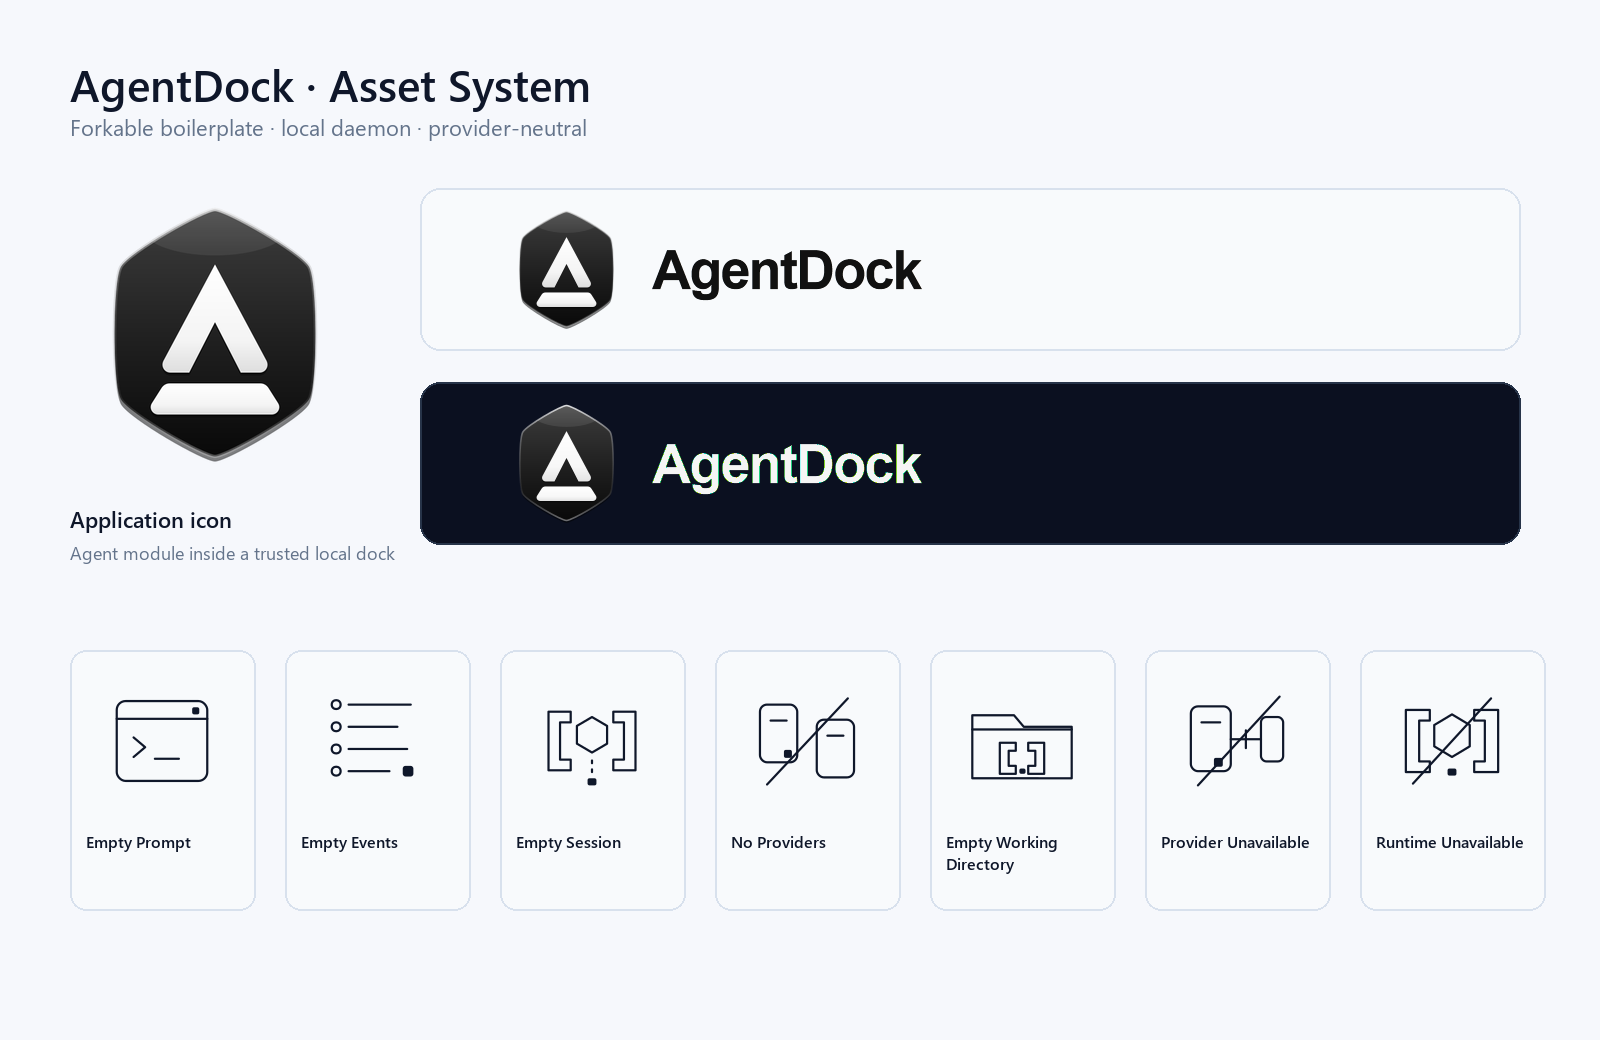
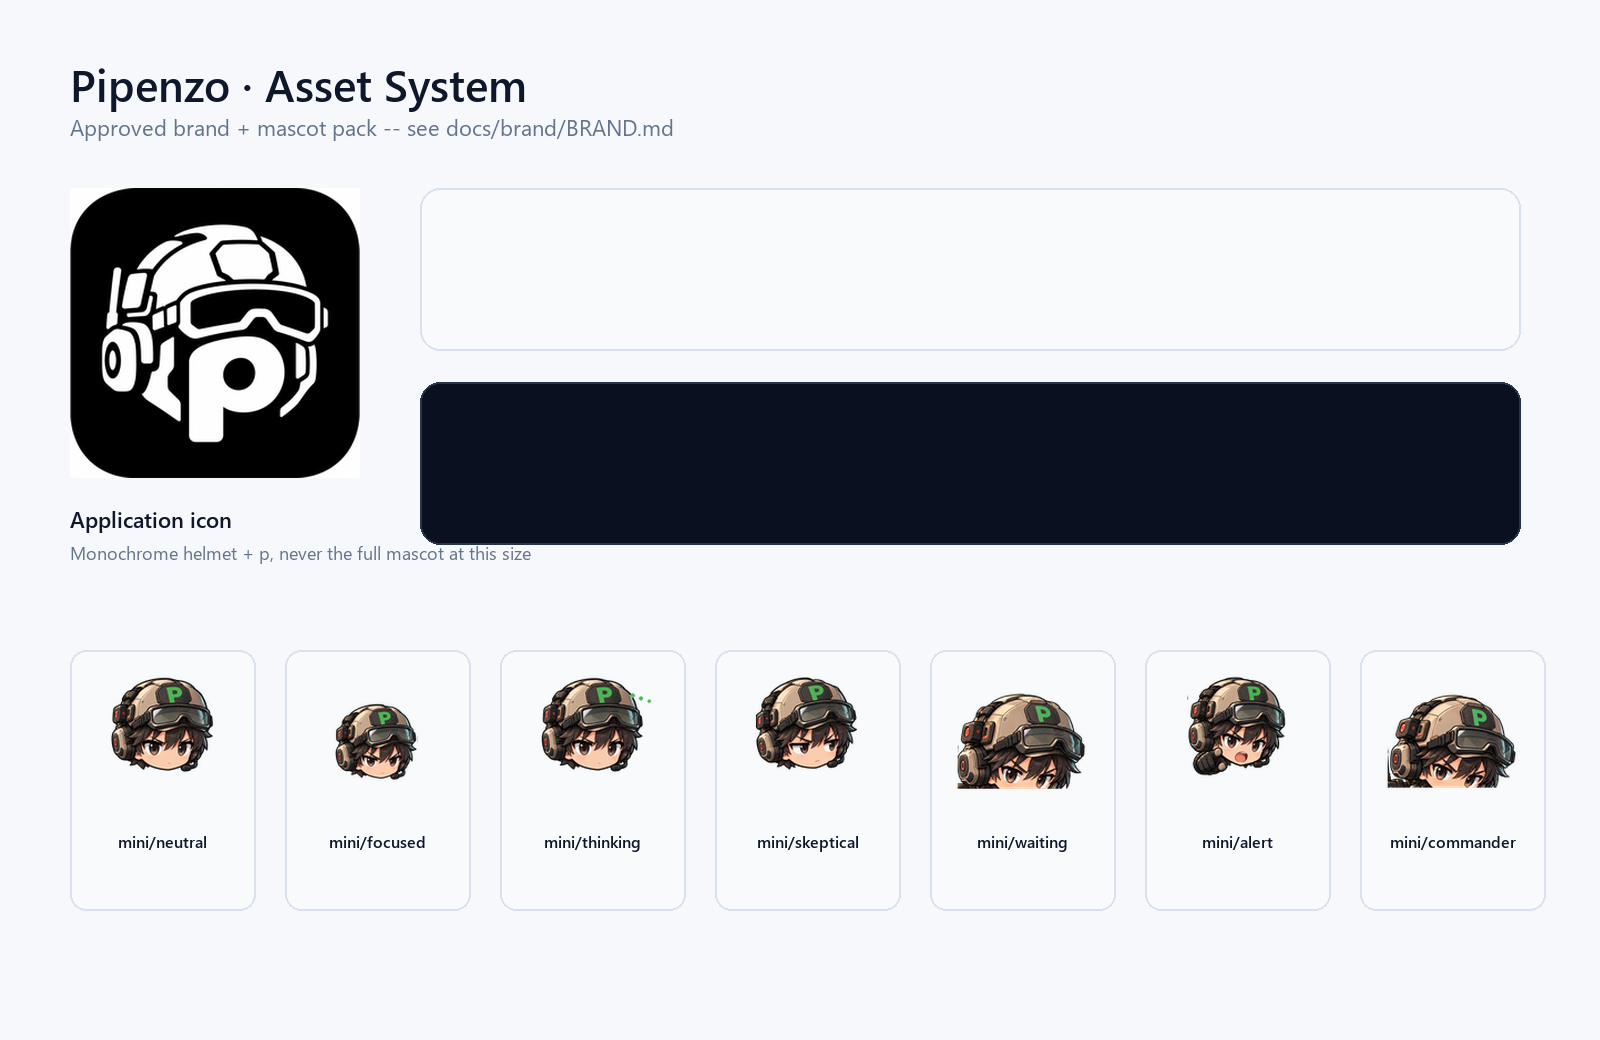
feat(assets): use the Pipenzo asset system across secondary public surfaces (#246)
Final ticket in epic #247. Replaces the remaining AgentDock-composited
public outputs with Pipenzo equivalents and adds the documented secondary
uses the ticket asks for -- all sourced from the approved pack (#239),
never redrawn.

scripts/assets/generate_public_assets.py:
- make_portfolio(): was an AgentDock composition with a screenshot overlay;
  now a plain aspect-preserving resize of the approved GitHub social
  preview (1280x640 -> 1440x720, exactly 2:1 both ways, so no crop/
  distortion). Deliberately not sourced from the #245 landing-page hero,
  which bakes in a "VIEW ON GITHUB" pixel button that makes sense next to
  a real clickable one on that page but reads as a fake control on a
  static portfolio thumbnail with no button anywhere near it -- caught by
  my own visual check, not a review finding.
- make_asset_system_preview(), make_icon_size_preview(): re-sourced from
  the approved Pipenzo icon/lockup/mini-portrait files instead of
  AgentDock's. The contributor preview sheet pastes real files in
  verbatim; it's documentation of the real committed system, not a new
  generative concept sheet.
- Added the workflow-roles illustration as a new generated file, embedded
  in docs/daemon.md's phase-machine section.
- Removed now-dead AgentDock-only code this rewrite orphaned:
  framed_screenshot(), rounded_mask(), hero_canvas(), make_social() (the
  last already unreachable from main() since #240), and the constants only
  those used.
[…]

diff --git a/scripts/assets/generate_public_assets.py b/scripts/assets/generate_public_assets.py
@@ -1,5 +1,11 @@
 #!/usr/bin/env python3
-"""Build AgentDock documentation and social images from reviewed local sources."""
+"""Build Pipenzo documentation and social images from reviewed local sources.
+
+Screenshot normalization is generated (a deterministic canvas/crop over a real browser capture);
+every Pipenzo composition below is either copied verbatim from the approved pack (#239) or a
+deterministic derivative of one (a crop, a labelled contact sheet of real pasted-in files) -- never
+a redrawn character, per the epic's #1 rule.
+"""
 
 from __future__ import annotations
 
@@ -7,7 +13,7 @@ import io
 from pathlib import Path
 
 import cairosvg
-from PIL import Image, ImageDraw, ImageEnhance, ImageFont
+from PIL import Image, ImageDraw, ImageFont
 from generate_assets import assert_safe_svg
 
 
@@ -15,15 +21,14 @@ PROJECT_ROOT = Path(__file__).resolve().parents[2]
 DESKTOP_ASSETS = PROJECT_ROOT / "apps" / "desktop" / "assets"
 SCREENSHOTS = PROJECT_ROOT / "docs" / "images" / "screenshots"
 SOCIAL = PROJECT_ROOT / "docs" / "images" / "social"
-ARTWORK = PROJECT_ROOT / "docs" / "images" / "artwork" / "agent-dock-runtime.png"
-PNG_ICONS = DESKTOP_ASSETS / "app-icons" / "png"
-BRAND = DESKTOP_ASSETS / "brand"
-ILLUSTRATIONS = DESKTOP_ASSETS / "illustrations"
 
-# Pipenzo's own public/social campaign (#240) reuses the pack #239 checked in verbatim -- these
-# compositions are already reviewed and approved, so this script copies them rather than
-# recomposing (redrawing) them the way the AgentDock functions below do.
-PIPENZO_MARKETING = DESKTOP_ASSETS / "pipenzo" / "marketing"
+PIPENZO_ROOT = DESKTOP_ASSETS / "pipenzo"
+PIPENZO_MARKETING = PIPENZO_ROOT / "marketing"
+PIPENZO_BRAND = PIPENZO_ROOT / "brand"
+PIPENZO_PNG_ICONS = PIPENZO_ROOT / "app-icons" / "png"
+PIPENZO_MINI = PIPENZO_ROOT / "mascot" / "mini"
+PIPENZO_ILLUSTRATIONS = PIPENZO_ROOT / "illustrations"
+PIPENZO_PNG_SIZES = (16, 20, 24, 32, 48, 64, 128, 256)
 
 NAVY = "#0B1020"
 INK = "#0F172A"
@@ -31,8 +36,6 @@ SLATE = "#64748B"
 PAPER = "#F8FAFC"
 CANVAS = "#F6F8FC"
 BORDER = "#D8E1ED"
-COBALT = "#5B6CFF"
-MINT = "#2DD4BF"
 
 SCREENSHOT_NAMES = (
     "desktop-ready.png",
@@ -66,14 +69,6 @@ def fit_crop(image: Image.Image, target: tuple[int, int]) -> Image.Image:
     left = (resized.width - width) // 2
     top = (resized.height - height) // 2
     return resized.crop((left, top, left + width, top + height))
-
-
-def rounded_mask(size: tuple[int, int], radius: int) -> Image.Image:
-    mask = Image.new("L", size, 0)
-    ImageDraw.Draw(mask).rounded_rectangle(
-        (0, 0, size[0] - 1, size[1] - 1), radius=radius, fill=255
-    )
-    return mask
 
 
 def rasterize_svg(path: Path, width: int, height: int, color: str | None = None) -> Image.Image:
@@ -121,30 +116,6 @@ def normalize_screenshots() -> None:
         canvas.save(path, format="PNG", optimize=True)
 
 
-def framed_screenshot(source: Image.Image, size: tuple[int, int]) -> Image.Image:
-    frame = Image.new("RGBA", (size[0] + 28, size[1] + 28), (0, 0, 0, 0))
-    draw = ImageDraw.Draw(frame)
-    draw.rounded_rectangle(
-        (0, 0, frame.width - 1, frame.height - 1),
-        radius=24,
-        fill="#111827",
-        outline="#334155",
-        width=2,
-    )
-    crop = fit_crop(source, size)
-    frame.paste(crop, (14, 14), rounded_mask(size, 14))
-    return frame
-
-
-def hero_canvas() -> Image.Image:
-    with Image.open(ARTWORK) as source:
-        artwork = fit_crop(source.convert("RGB"), (1440, 900))
-    artwork = ImageEnhance.Brightness(artwork).enhance(0.68)
-    canvas = artwork.convert("RGBA")
-    canvas.alpha_composite(Image.new("RGBA", canvas.size, (5, 11, 24, 72)))
-    return canvas
-
-
 def use_reviewed_source(source: Path, destination: Path) -> None:
     """Copy an already-reviewed, checked-in Pipenzo composition verbatim -- never redrawn."""
 
@@ -152,138 +123,70 @@ def use_reviewed_source(source: Path, destination: Path) -> None:
 
 
 def make_portfolio() -> None:
-    # Still AgentDock's own composition (#246 owns replacing this with a Pipenzo equivalent
-    # derived from the approved hero asset; #240 only owns the README hero and GitHub/OG social
-    # images, so this function is unchanged from before except no longer also writing
-    # readme-hero.webp, which now comes from the approved Pipenzo source below instead).
-    canvas = hero_canvas()
-    draw = ImageDraw.Draw(canvas)
-    draw.rounded_rectangle((44, 48, 470, 852), radius=30, fill=(7, 14, 30, 226), outline="#273449", width=2)
+    """Portfolio/project-card art (#246): a deterministic resize of the approved GitHub social
+    composition, not a redrawn composition -- the "responsive raster derivative" #239 explicitly
+    allows, not new artwork. Sourced from the social preview rather than the landing-page hero:
+    the landing hero (#245) bakes in a "VIEW ON GITHUB" pixel button that makes sense on the site
+    it sits next to a real clickable one, but reads as a broken/fake control on a static portfolio
+    thumbnail with no real button anywhere near it. Target size (1440x720) matches the source's
+    own 2:1 aspect ratio exactly -- a plain resize, not a fill-crop, so no baked text ever clips.
+    """
 
-    icon = Image.open(PNG_ICONS / "icon-128.png").convert("RGBA").resize((88, 88), Image.Resampling.LANCZOS)
-    canvas.alpha_composite(icon, (78, 84))
-    draw.text((78, 210), "AgentDock", fill=PAPER, font=font(58, bold=True))
-    draw.multiline_text(
-        (78, 292),
-        "Forkable Electron boilerplate\nfor desktop products using\nClaude Agent or Codex CLI.",
-        fill="#CBD5E1",
-        font=font(23),
-        spacing=8,
-    )
-
-    chips = ("Local daemon included", "CLI auth stays local", "Typed provider events")
-    y = 418
-    for label in chips:
-        draw.rounded_rectangle((78, y, 390, y + 48), radius=14, fill="#121A2B", outline="#334155")
-        draw.ellipse((96, y + 18, 108, y + 30), fill=MINT if y == 418 else COBALT)
-        draw.text((122, y + 12), label, fill="#E2E8F0", font=font(17, bold=True))
-        y += 64
-    draw.text((78, 786), "Electron · Fastify · TypeScript", fill="#94A3B8", font=font(16))
-
-    with Image.open(SCREENSHOTS / "session-completed.png") as source:
-        screenshot = source.convert("RGB")
-    frame = framed_screenshot(screenshot, (840, 525))
-    shadow = Image.new("RGBA", canvas.size, (0, 0, 0, 0))
-    ImageDraw.Draw(shadow).rounded_rectangle((524, 205, 1404, 775), radius=28, fill=(0, 0, 0, 90))
-    canvas.alpha_composite(shadow)
-    canvas.alpha_composite(frame, (500, 178))
-
-    rgb = canvas.convert("RGB")
-    rgb.save(SOCIAL / "portfolio-project.png", format="PNG", optimize=True)
-
-
-def make_social(width: int, height: int, filename: str) -> None:
-    with Image.open(ARTWORK) as source:
-        background = fit_crop(source.convert("RGB"), (width, height))
-    background = ImageEnhance.Brightness(background).enhance(0.62).convert("RGBA")
-    background.alpha_composite(Image.new("RGBA", background.size, (4, 10, 22, 88)))
-    draw = ImageDraw.Draw(background)
-
-    pad = round(width * 0.06)
-    icon_size = round(height * 0.14)
-    icon = Image.open(PNG_ICONS / "icon-128.png").convert("RGBA").resize(
-        (icon_size, icon_size), Image.Resampling.LANCZOS
-    )
-    background.alpha_composite(icon, (pad, pad))
-    title_size = round(height * 0.105)
-    draw.text((pad, pad + icon_size + 28), "AgentDock", fill=PAPER, font=font(title_size, bold=True))
-    draw.multiline_text(
-        (pad, pad + icon_size + title_size + 50),
-        "Electron boilerplate.\nLocal daemon included.",
-        fill="#CBD5E1",
-        font=font(round(height * 0.043)),
-        spacing=8,
-    )
-    draw.text(
-        (pad, height - pad - 30),
-        "Fork it · Claude Agent · Codex CLI",
-        fill="#94A3B8",
-        font=font(round(height * 0.027)),
-    )
-    background.convert("RGB").save(SOCIAL / filename, format="PNG", optimize=True)
+    with Image.open(PIPENZO_MARKETING / "pipenzo-github-social-preview-1280x640.png") as source:
+        resized = source.convert("RGB").resize((1440, 720), Image.Resampling.LANCZOS)
+    resized.save(SOCIAL / "portfolio-project.png", format="PNG", optimize=True)
 
 
 def make_asset_system_preview() -> None:
+    """Contributor-facing asset preview (#246): a documentation sheet of the real, checked-in
+    Pipenzo pack (#239) -- the icon, lockups, and mini portraits are pasted in verbatim from
+    approved files, only the labels/layout are generated. Not a new generative concept sheet."""
+
     canvas = Image.new("RGB", (1600, 1040), CANVAS)
     draw = ImageDraw.Draw(canvas)
-    draw.text((70, 54), "AgentDock · Asset System", fill=INK, font=font(44, bold=True))
-    draw.text((70, 112), "Forkable boilerplate · local daemon · provider-neutral", fill=SLATE, font=font(22))
+    draw.text((70, 54), "Pipenzo · Asset System", fill=INK, font=font(44, bold=True))
+    draw.text((70, 112), "Approved brand + mascot pack -- see docs/brand/BRAND.md", fill=SLATE, font=font(22))
 
-    icon = Image.open(PNG_ICONS / "icon-512.png").convert("RGBA").resize((290, 290), Image.Resampling.LANCZOS)
+    icon = Image.open(PIPENZO_PNG_ICONS / "pipenzo-icon-256.png").convert("RGBA").resize(
+        (290, 290), Image.Resampling.LANCZOS
+    )
     canvas.paste(icon, (70, 188), icon)
     draw.text((70, 504), "Application icon", fill=INK, font=font(22, bold=True))
-    draw.text((70, 540), "Agent module inside a trusted local dock", fill=SLATE, font=font(18))
+    draw.text((70, 540), "Monochrome helmet + p, never the full mascot at this size", fill=SLATE, font=font(18))
 
     draw.rounded_rectangle((420, 188, 1520, 350), radius=20, fill=PAPER, outline=BORDER, width=2)
-    light = rasterize_svg(BRAND / "agent-dock-lockup-horizontal-light.svg", 720, 144)
+    light = rasterize_svg(PIPENZO_BRAND / "pipenzo-lockup-horizontal-light.svg", 720, 144)
     canvas.paste(light, (490, 197), light)
     draw.rounded_rectangle((420, 382, 1520, 544), radius=20, fill=NAVY, outline="#273449", width=2)
-    dark = rasterize_svg(BRAND / "agent-dock-lockup-horizontal-dark.svg", 720, 144)
+    dark = rasterize_svg(PIPENZO_BRAND / "pipenzo-lockup-horizontal-dark.svg", 720, 144)
     canvas.paste(dark, (490, 391), dark)
 
-    names = (
-        "empty-prompt",
-        "empty-events",
-        "empty-session",
-        "no-providers",
-        "empty-working-directory",
-        "provider-unavailable",
-        "runtime-unavailable",
-    )
+    expressions = ("neutral", "focused", "thinking", "skeptical", "waiting", "alert", "commander")
     x0, y0 = 70, 650
-    for index, name in enumerate(names):
+    for index, name in enumerate(expressions):
         x = x0 + index * 215
         draw.rounded_rectangle((x, y0, x + 185, y0 + 260), radius=16, fill=PAPER, outline=BORDER, width=2)
-        illustration = rasterize_svg(ILLUSTRATIONS / f"{name}.svg", 142, 142, INK)
-        canvas.paste(illustration, (x + 21, y0 + 20), illustration)
-        label = name.replace("-", " ").title()
-        words = label.split()
-        lines: list[str] = []
-        line = ""
-        for word in words:
-            candidate = f"{line} {word}".strip()
-            if line and draw.textlength(candidate, font=font(16, bold=True)) > 153:
-                lines.append(line)
-                line = word
-            else:
-                line = candidate
-        if line:
-            lines.append(line)
-        for row, text in enumerate(lines[:2]):
-            draw.text((x + 16, y0 + 180 + row * 22), text, fill=INK, font=font(16, bold=True))
+        with Image.open(PIPENZO_MINI / f"pipenzo-head-{name}-128.png") as source:
+            portrait = source.convert("RGBA").resize((142, 142), Image.Resampling.LANCZOS)
+        canvas.paste(portrait, (x + 21, y0 + 20), portrait)
+        label = f"mini/{name}"
+        text_width = draw.textlength(label, font=font(16, bold=True))
+        draw.text((x + (185 - text_width) / 2, y0 + 180), label, fill=INK, font=font(16, bold=True))
     canvas.save(SOCIAL / "asset-system-preview.png", format="PNG", optimize=True)
 
 
 def make_icon_size_preview() -> None:
+    """Same production-size preview as before, re-sourced from the approved Pipenzo icon family
+    (#241) instead of AgentDock's."""
+
     canvas = Image.new("RGB", (1180, 430), CANVAS)
     draw = ImageDraw.Draw(canvas)
-    draw.text((35, 25), "AgentDock icon at production sizes", fill=INK, font=font(26, bold=True))
-    sizes = (16, 24, 32, 44, 48, 64, 128, 256)
+    draw.text((35, 25), "Pipenzo icon at production sizes", fill=INK, font=font(26, bold=True))
     x = 35
-    for size in sizes:
+    for size in PIPENZO_PNG_SIZES:
         card_width = max(90, size + 34)
         draw.rounded_rectangle((x, 85, x + card_width, 365), radius=14, fill=PAPER, outline=BORDER, width=2)
-        with Image.open(PNG_ICONS / f"icon-{size}.png") as source:
+        with Image.open(PIPENZO_PNG_ICONS / f"pipenzo-icon-{size}.png") as source:
             icon = source.convert("RGBA")
         display_size = min(size, 210)
         if display_size != size:
@@ -314,6 +217,12 @@ def main() -> None:
     use_reviewed_source(
         PIPENZO_MARKETING / "pipenzo-readme-hero-1600x520.webp",
         SOCIAL / "readme-hero.webp",
+    )
+    # docs/daemon.md's phase-machine section (#246): the same approved role strip, reused verbatim
+    # rather than a second illustration invented for docs specifically.
+    use_reviewed_source(
+        PIPENZO_ILLUSTRATIONS / "pipenzo-workflow-roles-1800x650.png",
+        SOCIAL / "pipenzo-workflow-roles.png",
     )
     make_asset_system_preview()
     make_icon_size_preview()

diff --git a/scripts/assets/validate_assets.py b/scripts/assets/validate_assets.py
@@ -90,8 +90,12 @@ PUBLIC_IMAGES = {
     SOCIAL_ROOT / "readme-hero.webp": ((1600, 520), "WEBP"),
     SOCIAL_ROOT / "github-social-preview.png": ((1280, 640), "PNG"),
     SOCIAL_ROOT / "open-graph.png": ((1200, 630), "PNG"),
-    SOCIAL_ROOT / "portfolio-project.png": ((1440, 900), "PNG"),
+    # Pipenzo's own portfolio card (#246) is a plain resize of the 2:1 social-preview composition,
+    # a different aspect ratio than the AgentDock version it replaced.
+    SOCIAL_ROOT / "portfolio-project.png": ((1440, 720), "PNG"),
     SOCIAL_ROOT / "asset-system-preview.png": ((1600, 1040), "PNG"),
+    # docs/daemon.md's phase-machine illustration (#246), reused verbatim from the approved pack.
+    SOCIAL_ROOT / "pipenzo-workflow-roles.png": ((1800, 650), "PNG"),
     SOCIAL_ROOT / "icon-size-preview.png": ((1180, 430), "PNG"),
 }
 

diff --git a/docs/brand/ASSET_MANIFEST.md b/docs/brand/ASSET_MANIFEST.md
@@ -76,3 +76,25 @@ audits; not meant to be surfaced on any product/public page.
 `ASSET_INDEX.md`, `BRAND_USAGE.md`, `QA_REPORT.md`, and `qa-contact-*.jpg` are the pack's own
 review record, carried over as-is for provenance. `BRAND.md` and this file are the repo's own
 usage docs, layered on top.
+
+## Secondary public surfaces ([#246](https://github.com/jortega0033/pipenzo/issues/246))
+
+`scripts/assets/generate_public_assets.py` derives a few more committed files from the pack above,
+none of them redrawn:
+
+| Generated file | Source | Use |
+|---|---|---|
+| `docs/images/social/portfolio-project.png` | plain resize of `pipenzo-github-social-preview-1280x640` | External portfolio/project-card listings |
+| `docs/images/social/asset-system-preview.png` | icon + lockups + `mascot/mini/*` pasted in verbatim | Contributor-facing map of the real committed files |
+| `docs/images/social/icon-size-preview.png` | `app-icons/png/pipenzo-icon-*` | The icon family at production sizes |
+| `docs/images/social/pipenzo-workflow-roles.png` | `illustrations/pipenzo-workflow-roles-1800x650` | Embedded in [docs/daemon.md](../daemon.md)'s phase-machine section |
+
+Release announcements (GitHub Releases, `docs/release-checklist.md`) reuse
+`pipenzo-github-social-preview-1280x640` directly rather than a separate generated file — see that
+doc for the exact guidance on keeping the version/date as real text alongside it, never baked into
+the image.
+
+**Tray / native-notification icons**: not implemented yet, gated on
+[#151](https://github.com/jortega0033/pipenzo/issues/151)'s behavior-scope decision. When that
+lands, the icon source is the `app-icons/` helmet+`p` family above, at whatever size the OS tray
+API wants — never the full mascot at tray/notification-icon sizes.

diff --git a/docs/daemon.md b/docs/daemon.md
@@ -109,6 +109,13 @@ and rollback path. The complete v2 route, status, and wire-shape tables live in
 
 ## Pipenzo ticket phase machine
 
+![The Refine, Implement, Review, Verify workflow, with the human-approval step visually separate at the end](images/social/pipenzo-workflow-roles.png)
+
+The lanes below are what that strip maps onto in the running system: each phase transition this
+machine records corresponds to one step in the strip above, and the final "you approve" step is
+never one of this machine's own transitions -- it's the human action `publish-service.ts` (see
+[architecture.md](architecture.md)) gates on, not a lane this state machine can reach on its own.
+
 `PipenzoPhaseMachine` (`apps/daemon/src/pipenzo-phase-machine.ts`) is a daemon-internal component
 behind two of the routes documented in [protocol-v2.md](protocol-v2.md):
 `POST /v2/pipenzo/tickets/read` and `POST /v2/pipenzo/tickets/transition`. It is the implementation

diff --git a/docs/release-checklist.md b/docs/release-checklist.md
@@ -111,6 +111,16 @@ To publish:
    see [signingStatus](#reading-the-manifest) above and
    [packaging.md](packaging.md#unsigned-installer-and-smartscreen).
 
+### Announcing a release ([#246](https://github.com/jortega0033/pipenzo/issues/246))
+
+If you're posting about a release anywhere image previews matter (a pinned issue, a social post,
+an external announcement), reuse
+`apps/desktop/assets/pipenzo/marketing/pipenzo-github-social-preview-1280x640.png` as the header
+image rather than composing a new one. It's already approved and carries no version/date/platform
+claims baked into the pixels, so the same file works for every release; put the actual version, the
+tag, and what changed as real text in the post/notes next to it, never as a one-off edit to the
+image itself.
+
 ## Recommended environment protection for `release`
 
 `release-publish.yml` targets a GitHub Environment named `release`

diff --git a/docs/assets.md b/docs/assets.md
@@ -73,9 +73,10 @@ docs/images/
                                                apps/desktop/assets/pipenzo/marketing/)
     github-social-preview.png     1280 × 640
     open-graph.png                1200 × 630
-    portfolio-project.png         1440 × 900
-    asset-system-preview.png      1600 × 1040
-    icon-size-preview.png         1180 × 430
+    portfolio-project.png         1440 × 720  (Pipenzo, #246)
+    asset-system-preview.png      1600 × 1040 (Pipenzo, #246)
+    icon-size-preview.png         1180 × 430  (Pipenzo, #246)
+    pipenzo-workflow-roles.png    1800 × 650  (#246; embedded in docs/daemon.md)
 ```
 
 The screenshots come from the real renderer through a development-only capture bridge. It accepts
